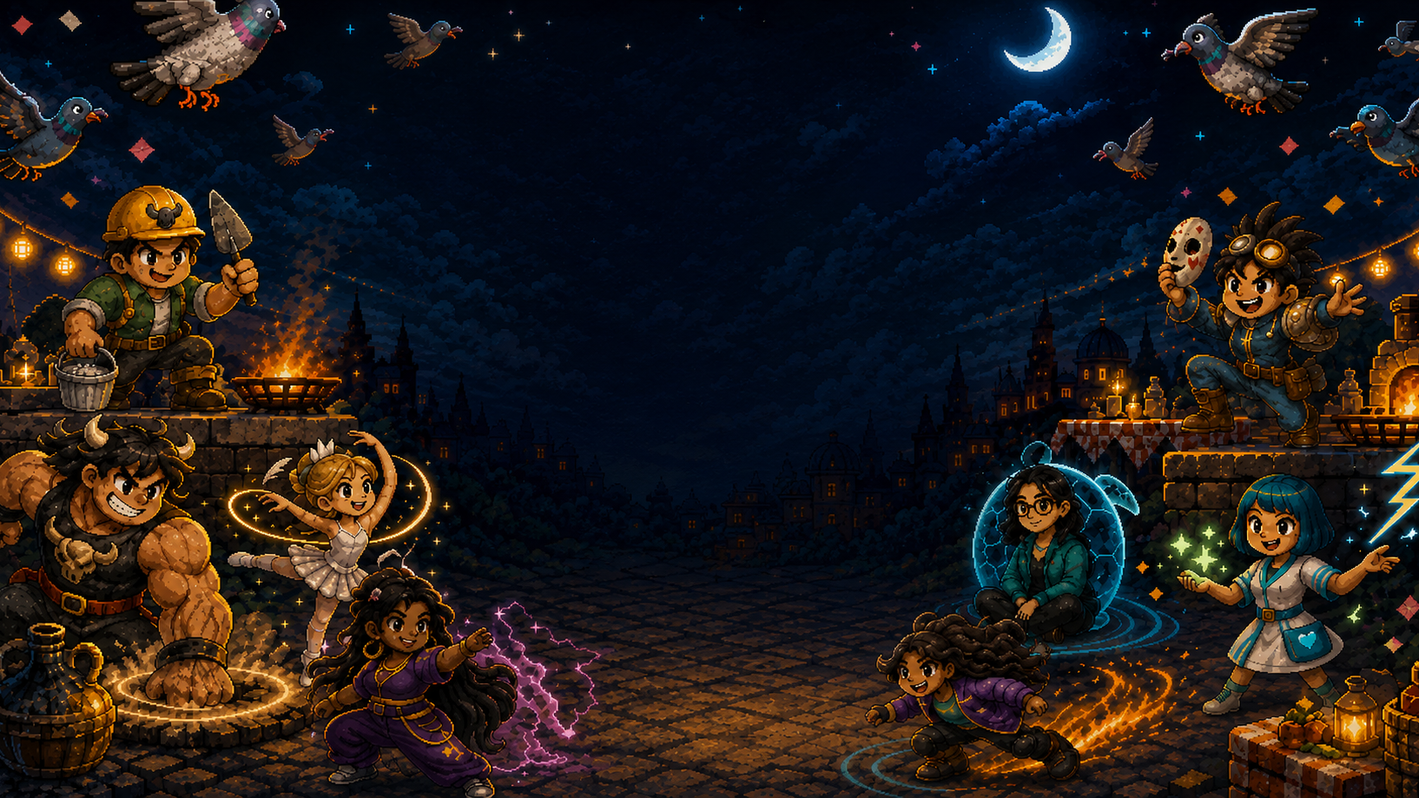
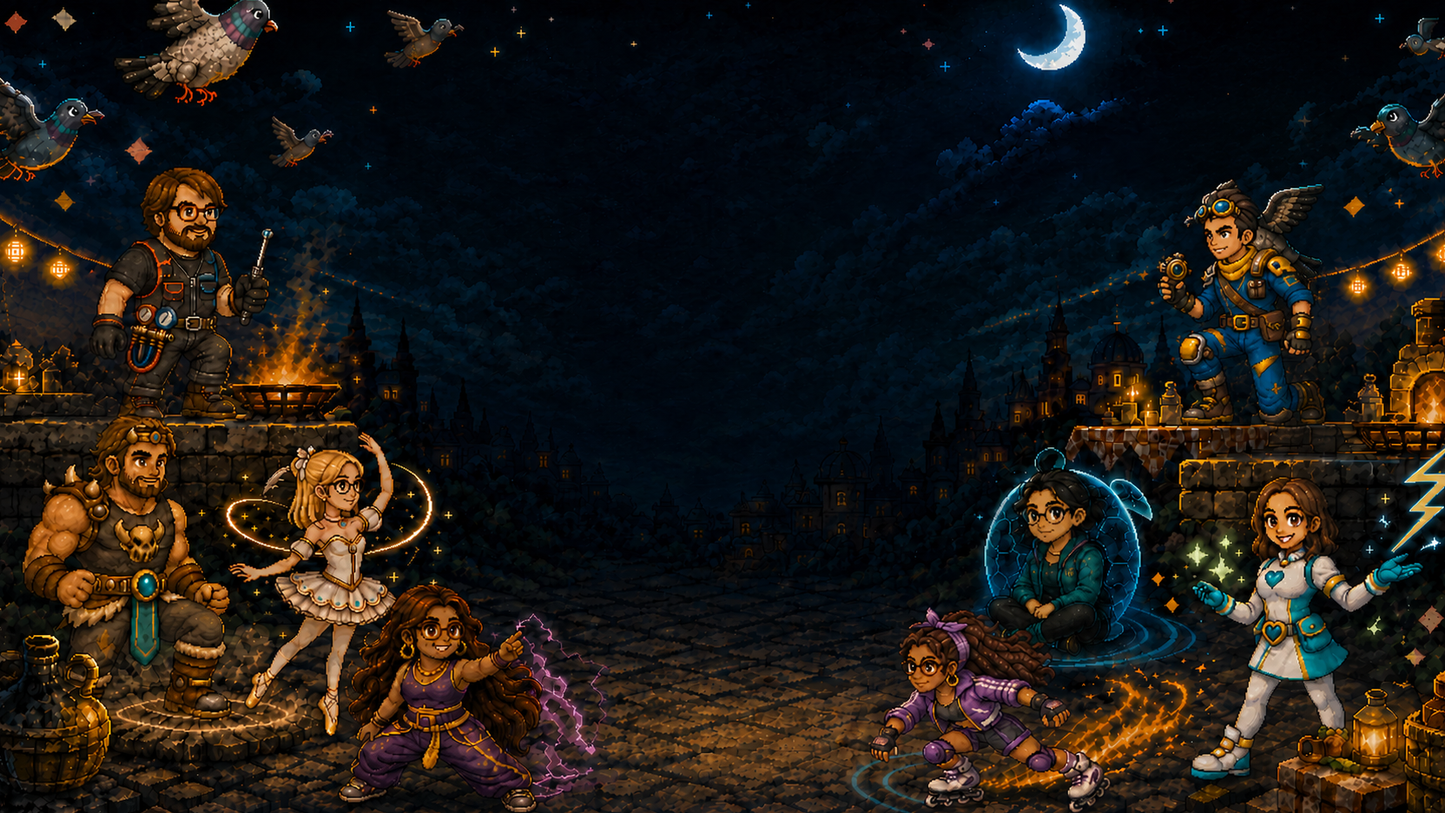
chore: Refresh welcome cast art and prune superseded welcome assets
Commit the 28 August welcome background refresh that realigns the eight
characters to the B18U identity masters, and track its HD source alongside
the other hd/ folders.

Remove the superseded trial rasters: the pre-refresh runtime baseline, the
pre-grounding intermediate, and the cast-less base backdrop that nothing
referenced. Rewrite the welcome asset manifest around the current version -
runtime file table, HD source, transformation chain and the two prompts that
produced it - with the superseded rounds kept as a dated summary instead of
five full prompt blocks.

diff --git a/assets/art/ui/welcome/ASSET-MANIFEST.md b/assets/art/ui/welcome/ASSET-MANIFEST.md
@@ -1,15 +1,45 @@
 # Manifest grafico welcome B18O
 
-Fondale originale prodotto il 24 agosto 2026 con la modalità built-in di OpenAI
-ImageGen per la schermata iniziale di IL GIOCO. La variante runtime corrente usa
-come edit target la reference pixel-art fornita dal proprietario del progetto
-nella sessione del 24 agosto e integrata dopo la sua richiesta esplicita di
-procedere. Non sono state usate fotografie o persone reali. Il runtime non
+Fondale della schermata iniziale di Pidgeon Survivor, prodotto con la modalità
+built-in di OpenAI ImageGen. La versione runtime corrente è il refresh identità
+del cast del 28 agosto 2026: usa come edit target la reference pixel-art
+approvata e come riferimenti di identità gli otto master del proprietario in
+`assets/art/characters/players/hd/`. I riferimenti derivano da fotografie di
+persone reali fornite e autorizzate esplicitamente dal proprietario; il
+risultato resta una caricatura pixel-art non fotorealistica. Il runtime non
 dipende dal servizio di generazione.
 
 Origine: OpenAI ImageGen built-in.  
 Autore: progetto IL GIOCO con assistenza OpenAI ImageGen.  
 Licenza: Licenza del progetto.
+
+## File runtime
+
+| Percorso | Dimensioni | Trasformazioni | SHA-256 |
+|---|---:|---|---|
[2 lines of base64/hex data omitted]
+
+Sorgente HD conservato fuori dall'import e dai tre preset di export:
+
+| Percorso | Dimensioni | SHA-256 |
+|---|---:|---|
[1 lines of base64/hex data omitted]
+
+La cartella `hd/` contiene `.gdignore` ed è esclusa esplicitamente dai preset
+Windows, Android APK e Android AAB.
+
+Il fondale è dedicato alla welcome e non sostituisce lo sfondo arena pianificato
+in B18S. Il pannello, il titolo e i pulsanti restano UI nativa Godot per
+preservare testo esatto, focus, safe area e accessibilità multipiattaforma.
+
+## Catena di trasformazione della versione runtime
+
+L'edit di refresh ha prodotto un PNG RGB `1672×941`, conservato come sorgente HD.
+Per ottenere il file runtime è stato applicato soltanto un crop centrale senza
+ricampionamento: `4 px` per lato, `2 px` sopra e `3 px` sotto, ottenendo un PNG
+RGB 16:9 esatto `1664×936`. Nessun ritocco manuale, ridimensionamento o testo
+raster è stato aggiunto.
 
 ## Logo welcome fornito
 
@@ -25,6 +55,9 @@ presenti nel raster: titolo `Pidgeon Survivor` e sottotitolo
 
 ## Prompt fondale base
 
+Definisce ambiente, palette, illuminazione, piccioni e area menu protetta che
+ogni versione successiva ha dovuto preservare.
+
 ```text
 Use case: stylized-concept
 Asset type: 16:9 game title-screen background for a Windows and Android friendship-survival arcade game
@@ -38,115 +71,60 @@ Color palette: deep navy and indigo base, warm amber and golden yellow, cyan hig
 Constraints: no text, no letters, no numbers, no logo, no UI controls, no frame, no watermark; no realistic faces; no gore; no guns; no false obstacle grid; no bulky sci-fi panels; maintain strong readability and low contrast in the central UI-safe area; the image itself must fill the full canvas without a border
 ```
 
-## Prompt prima variante cast abilità
+## Prompt refresh identità del cast — versione runtime corrente
 
 ```text
 Use case: precise-object-edit
-Asset type: 16:9 Windows and Android game welcome-screen background
-Input images: Image 1 is the edit target and establishes the exact pixel-art style, environment, lighting, palette, framing, pigeon design, and protected central menu area.
-Primary request: replace only the eight generic human adventurers in Image 1 with exactly eight original fictional characters whose clothing, pose, props, silhouette, and restrained VFX clearly communicate the approved IL GIOCO roster abilities. Do not base them on real people. Keep the rest of Image 1 visually unchanged.
+Asset type: 16:9 Windows and Android pixel-art welcome-screen background
+Input: preserve the approved welcome background exactly; use the eight supplied
+character masters only as identity, hairstyle, body-shape, costume and ability
+references.
 
-Character replacements, exactly one of each:
-1. Magno — a broad, powerful seismic strongman with a playful bovine motif such as small decorative horns or a bull emblem; planted stance; one fist causing a compact circular earthquake shockwave and a few ground cracks.
-2. Bea — an agile inline roller skater caught in a dramatic low powerslide; sporty silhouette; a short curved trail of orange fire behind the skates.
-3. Zat — a resourceful field nurse and storm healer carrying a compact medical satchel with a generic cyan heart symbol, never a Red Cross emblem; one hand emitting soft healing light while a yellow-cyan thunderbolt arcs overhead.
-4. Alea — a graceful classical ballerina in mid grand pirouette; clear tutu/skirt silhouette and pointed pose; a bright circular motion ribbon with a subtle eagle-feather accent.
-5. Aleo — a sturdy construction worker with hard hat, rolled sleeves, trowel and small cement bucket; a fresh gray cement splash hardening into a slowing patch near the boots.
-6. Lollo — a hyperactive chaotic cosplayer wearing an original patchwork costume assembled from several generic archetypes, with a removable mask and colorful accessories; no copyrighted or recognizable franchise costume.
-7. Migi — a calm meditating martial-arts monk or yogi; serene pose inside a translucent cyan turtle-shell shield and slow concentric zen waves.
-8. Marghe — an energetic reggaeton street dancer in a confident rhythmic pose; magenta-gold beat accents and one flat shadow silhouette echoing the dance as a VFX clone, clearly not a ninth physical character.
+Replace the eight existing physical characters, keeping their established slots:
+upper-left Aleo, lower-left Magno/Alea/Marghe, upper-right Lollo, lower-right
+Migi/Bea/Zat. Preserve the deep navy night, moon, pigeons, platforms, barbecue
+glow, palette, camera, pixel clusters and the dark protected menu-safe area
+x=31%-69%, y=9%-70%.
 
-Placement: preserve the existing eight character slots around the outer lower edges. Put Aleo in the upper-left slot; Magno, Alea, and Marghe across the lower-left group. Put Lollo in the upper-right slot; Migi, Bea, and Zat across the lower-right group. Keep every important face, prop, and effect outside the central 45% UI-safe area.
+Aleo: stocky brown-haired bearded thermotechnician with rectangular glasses,
+black HVAC uniform, red/blue gauges, hoses and probe. Magno: fully human, very
+muscular, swept brown hair and beard, bull-emblem outfit with decorative horn
+motifs. Alea: slender blonde ballerina with glasses, white-gold costume and cyan
+gems. Marghe: visibly fuller and softly curvy, round face, tortoiseshell glasses,
+very long dark hair, purple-gold reggaeton outfit and one flat VFX shadow clone.
+Lollo: lean angular face, dark swept pompadour, brass-blue goggles and original
+blue-gold retrofuturist outfit. Migi: black low bun, round light-metal glasses,
+teal-charcoal clothing and cyan turtle-shell shield. Bea: curvy athletic skater,
+black glasses, voluminous curls, mandatory lavender bandana, purple roller outfit,
+low powerslide with both skates correctly grounded and a short fire trail. Zat:
+slender, long narrow smiling face, shoulder-length brown hair and white-cyan-gold
+electric field-medic outfit.
 
-Style/medium: polished hand-crafted 2D pixel-art arcade illustration matching Image 1 exactly; crisp clustered pixels, chunky readable silhouettes, limited rich palette, expressive caricature, consistent scale and outline weight. Characters should feel like one cohesive friendship-survival cast, not unrelated costume mascots.
-Lighting/mood: preserve the deep navy summer night, warm amber barbecue/string-light illumination, cyan moonlight, restrained magenta accents, and cheerful absurd-survival tone.
-Composition/framing: preserve Image 1's 16:9 canvas, camera angle, moon, sky, pigeons, barbecue party environment, tables, props, ground perspective, and dark quiet center. Maintain safe crop behavior for 20:9 and 4:3.
-Constraints: exactly eight physical human characters; the Marghe shadow clone is a flat translucent VFX silhouette only. No text, letters, numbers, logo, UI, buttons, frame, border, watermark, realistic faces, real-person likenesses, gore, guns, copyrighted costumes, Red Cross emblem, extra humans, or extra humanoids. Do not brighten, clutter, or populate the central menu-safe area. Change only the eight character designs and the small ability effects immediately around them; keep all other image elements unchanged.
+Strict invariants: exactly eight physical humans; Marghe's shadow is VFX only.
+No extra body, mannequin, duplicate, text, logo, UI, watermark, border, gun,
+gore, branded costume or Red Cross emblem. Do not place faces, torsos or bright
+props in the protected center. Keep the characters grounded and anatomically
+coherent, with the left/right sprite identity distinctions reflected in pose.
 ```
 
-## Prompt correzione cast — runtime corrente
+Una passata di pulizia ha rimosso il corpo blu residuo sotto Lollo. Su richiesta
+del proprietario, l'ultima correzione abbassa soltanto Lollo di pochi pixel e
+porta entrambi gli stivali a contatto leggibile con la piattaforma superiore,
+senza ridisegnare il personaggio o modificare gli altri sette.
 
-```text
-Use case: precise-object-edit
-Asset type: 16:9 Windows and Android game welcome-screen background
-Input images: Image 1 is the exact edit target.
-Primary request: make only the following four targeted character corrections while preserving the entire image, the other four characters, and the central menu-safe space.
+## Passaggi superati
 
-1. Migi — the seated zen character inside the glowing cyan turtle-shell shield near the center-right: redesign her as an adult woman with clearly visible black hair and readable glasses. She does not need to be a monk. Give her a relaxed modern teal-and-dark outfit, a calm seated pose, and a thoughtful friendly expression. Preserve the cyan turtle-shell shield and concentric slowing waves so her defensive Zen ability remains unmistakable.
-2. Marghe — the reggaeton dancer in purple at the lower-left, next to the magenta shadow clone: make her visibly fuller-bodied and softly curvy, with very long flowing black hair. Preserve her energetic confident dance pose, purple street-dance clothing, magenta-gold beat accents, and flat shadow-clone VFX.
-3. Bea — the roller skater performing the fiery powerslide in the lower-right foreground: add one clearly visible purple garment, preferably a purple sporty jacket or hoodie. Preserve her low powerslide pose, inline skates, speed arc, and orange fire trail.
-4. Lollo — the cosplayer on the upper-right platform: redesign the costume as an original retro-futuristic post-apocalyptic lone-survivor cosplay, evoking a cheerful vault explorer through a blue utility jumpsuit with yellow trim, rugged boots, utility belt, improvised shoulder protection, and a weathered explorer accessory. Keep it an original design: no Fallout logo, no vault number, no Pip-Boy copy, no franchise iconography, and no exact reproduction of any copyrighted character. Preserve Lollo's hyperactive theatrical pose and removable cosplay prop.
+I raster intermedi delle prove precedenti sono stati rimossi: il repository
+conserva soltanto la versione runtime corrente e il suo sorgente HD. I prompt
+integrali dei passaggi superati restano recuperabili dalla cronologia git di
+questo manifest.
 
-Strict invariants: keep Magno, Alea, Aleo, and Zat unchanged. Preserve the exact 16:9 canvas size, hand-crafted pixel-art style, character positions, camera, moon, pigeons, barbecue party environment, lighting, palette, dark central 45% negative space, props, and crop safety. Keep exactly eight physical human characters; Marghe's shadow clone remains a flat translucent VFX silhouette, not a ninth person. Do not add, remove, or move characters. No text, letters, numbers, logos, UI, frame, border, watermark, realistic faces, real-person likenesses, guns, gore, branded costumes, or extra humanoids.
-```
-
-## Prompt correzione Bea — runtime corrente
-
-```text
-Use case: precise-object-edit
-Asset type: 16:9 Windows and Android game welcome-screen background
-Input images: Image 1 is the exact edit target.
-Primary request: modify only Bea, the inline roller skater in the purple sporty jacket performing a fiery low powerslide in the lower-right foreground.
-
-Bea correction: remove her orange helmet completely. She must have no helmet, cap, hat, hood, headband, or other headwear. Replace the helmet with long, voluminous, naturally curly hair in the same dark hair color already visible on the character. The curls should be clearly readable as long and curly, flowing backward with the speed of the powerslide while keeping her face unobstructed. Preserve Bea's friendly expression, purple jacket, body proportions, exact low skating pose, inline skates, cyan speed arc, and orange fire trail.
-
-Strict invariants: change only Bea's head and hair. Keep Migi, Marghe, Lollo, Magno, Alea, Aleo, and Zat exactly unchanged. Preserve all eight character positions, every other costume and face, Marghe's shadow-clone VFX, the exact 16:9 canvas, pixel-art style, palette, lighting, moon, pigeons, barbecue party scenery, props, central dark menu-safe space, and crop safety. Keep exactly eight physical human characters. Do not add or remove people, effects, text, letters, numbers, logos, UI, watermark, frame, realistic rendering, real-person likeness, guns, gore, or branded elements. This is a single-character helmet-removal and hairstyle edit only.
-```
-
-## Prompt correzione Lollo e Zat — runtime corrente
-
-```text
-Edit the supplied finished 16:9 pixel-art game welcome illustration with two precise character corrections only.
-
-1) LOLLO: He is the man standing on the small upper-right platform, wearing the original blue-and-yellow retro-futuristic post-apocalyptic survivor cosplay with goggles. Change only his hair color so it is clearly dark: near-black or very dark brown. Keep his existing hairstyle, goggles, face, costume, pose, proportions, lighting, platform, and non-branded original design exactly unchanged.
-
-2) ZAT: She is the rightmost electric field nurse in the lower-right character group, behind/near Bea, currently casting cyan healing light and yellow-cyan lightning. Give her a clear neat chin-length bob haircut ("caschetto" means a bob haircut, absolutely NOT a helmet or any headgear), preserving her existing teal hair color. Make her outfit unmistakably a white-and-teal nurse uniform: a practical clean nurse tunic or dress with collar and belt, with a generic cyan heart medical emblem; do not use a Red Cross emblem. Preserve her face, pose, position, healing glow, lightning power, body proportions, and lighting.
-
-Preserve every other person exactly as in the source: Bea remains helmetless with long dark curly hair and a purple garment while powersliding; Migi remains a woman with glasses and black hair inside the turtle shield; Marghe remains fuller-bodied with extremely long black hair; Magno, Alea, and Aleo remain unchanged. Preserve the exact environment, composition, pixel-art rendering, palette, central negative space for UI, effects, crop, and 16:9 framing. Exactly eight physical human characters total. Do not add, remove, duplicate, move, resize, or redesign any character. No text, letters, numbers, logos, watermarks, borders, UI, extra limbs, helmets, or additional figures.
-```
-
-## Prompt pulizia reference e ricomposizione cast — runtime corrente
-
-```text
-Use case: precise-object-edit
-Asset type: 16:9 Windows and Android game welcome-screen background
-Input images: Image 1 is the edit target and visual reference.
-
-Primary request: turn Image 1 into a clean background plate for a native responsive Godot menu. Remove every baked-in interface element from the center: remove the entire wooden "Pidgeon Survivor" title sign, the subtitle ribbon, the large dark menu frame, both baked buttons, every word, every letter, every icon, and every UI decoration attached to those panels. Reconstruct the concealed night sky, distant town, stone ground, party lighting, and scenery seamlessly in the exact same polished hand-crafted pixel-art style.
-
-Composition: create a protected central UI-safe region spanning approximately x=31% to 69% and y=9% to 70% of the canvas. Keep this region dark, quiet, low-detail, and completely free of people, faces, bodies, props, pigeons, bright VFX, signs, frames, and text. It will hold a native title plaque and two native buttons. Preserve the moon, flying pigeons, barbecue glow, string lights, city silhouettes, platforms, tables, and warm night-party atmosphere around the outer edges.
-
-Characters: preserve exactly the same eight fictional human characters, their designs, faces, clothing, poses, abilities, scale, and pixel-art rendering:
-- Aleo, upper-left construction worker with hard hat, trowel, and bucket.
-- Magno, lower-left broad seismic strongman with bovine motif.
-- Alea, classical ballerina with golden circular pirouette ribbon.
-- Marghe, fuller-bodied reggaeton dancer in purple with extremely long black hair and a flat magenta shadow-clone VFX.
-- Lollo, upper-right blue-and-yellow original retro-futuristic survivor cosplayer with clearly dark hair and goggles.
-- Migi, woman with glasses and black hair inside the cyan turtle-shell shield.
-- Bea, helmetless inline skater with long dark curly hair, purple jacket, and fiery powerslide.
-- Zat, electric field nurse with a neat teal chin-length bob haircut, no headgear, white-and-teal nurse uniform, cyan heart emblem, healing light, and yellow-cyan thunderbolt.
-
-Move characters only as much as required to keep their complete faces, heads, identifying clothing, and ability props outside the protected central region. Shift Marghe farther toward the lower-left group; shift Migi and Bea farther toward the lower-right group. Keep everyone naturally grounded and fully readable. Limbs or subtle trails may approach the center, but no face or torso may sit behind the future menu area. Preserve the friendly ensemble balance and safe cropping for 20:9 and 4:3.
-
-Style/medium: match Image 1 exactly—professional crisp clustered 2D pixel art, chunky readable silhouettes, rich limited palette, expressive caricature, deep navy night, warm amber light, cyan highlights, restrained magenta accents.
-
-Strict constraints: exactly eight physical humans total; Marghe's shadow clone remains a flat translucent VFX silhouette and not a ninth person. No text, letters, numbers, logos, watermark, UI, buttons, panels, plaques, frames, borders, realistic faces, real-person likenesses, gore, guns, copyrighted costumes, Red Cross emblem, extra humans, or humanoids. Do not redesign any character. Do not add new objects. The output must be only the clean full-canvas background illustration.
-```
-
-L'output built-in grezzo è un PNG RGB `1711×919`, SHA-256
[1 lines of base64/hex data omitted]
-Per ripristinare il contratto 16:9 è stato applicato un crop centrale senza
-ricampionamento: `38 px` a sinistra e `39 px` a destra. Nessun ritocco manuale,
-ridimensionamento o testo raster è stato aggiunto.
-
-## File runtime
-
-| Percorso | Dimensioni | Trasformazioni | SHA-256 |
-|---|---:|---|---|
[3 lines of base64/hex data omitted]
-
-Il fondale è dedicato alla welcome e non sostituisce lo sfondo arena pianificato
-in B18S. Il pannello, il titolo e i pulsanti restano UI nativa Godot per
-preservare testo esatto, focus, safe area e accessibilità multipiattaforma.
+| Data | Passaggio | Esito |
+|---|---|---|
+| 24 agosto 2026 | Fondale base senza cast, output built-in `1711×919` con crop centrale `38/39 px` a `1634×919` | Superato dal cast abilità |
+| 24 agosto 2026 | Prima variante cast abilità: otto personaggi originali sulle slot esterne | Superato dalle correzioni successive |
+| 24 agosto 2026 | Correzioni mirate su Migi, Marghe, Bea e Lollo | Superato dal refresh identità |
+| 24 agosto 2026 | Correzione Bea, rimozione casco e capelli ricci lunghi | Superato dal refresh identità |
+| 24 agosto 2026 | Correzione Lollo e Zat, capelli scuri e divisa da infermiera | Superato dal refresh identità |
+| 24 agosto 2026 | Pulizia reference e ricomposizione cast per liberare l'area menu | Confluito nella versione corrente |
+| 28 agosto 2026 | Refresh identità del cast dai master B18U, più abbassamento di Lollo | **Versione runtime corrente** |

diff --git a/docs/content-approvals.md b/docs/content-approvals.md
@@ -47,11 +47,11 @@ non una somiglianza fotografica, ma per Aleo non vale più la clausola
 | Varianti Boss B22 | Approvate come riuso | Il piccione speciale B18H è la baseline; gli otto Evil riusano gli sprite Player B18U già approvati con sola modulazione viola/magenta runtime. Nessun nuovo raster, citazione, voce, passiva o abilità personale entra in B22 |
 | Icone e VFX B18M | Approvato e integrato; timing B18R verificati | Otto emblemi PNG originali OpenAI ImageGen sostituiscono gli SVG e animano l'attivazione; prompt, trasformazioni, licenza e hash sono nel manifest. Il burst da `1,20 s` e le code non interattive hanno superato automatici, Windows, Android e verifica umana il 25 agosto 2026 |
 | Icone passive del roster B18W | Approvate e integrate | Otto PNG raster dedicati (Magno più sette master RGBA forniti dal proprietario) sostituiscono il fallback al ritratto nel kit. Prompt, origine, trasformazioni e hash sono in `assets/art/icons/passives/ASSET-MANIFEST.md`; confronto percettivo fisico chiuso il 25 agosto 2026 |
-| Fondale e logo welcome B18O | Approvato e integrato | La reference pixel-art approvata dal proprietario è stata ripulita con OpenAI ImageGen built-in: nessuna UI resta nel fondale, gli otto archetipi sono ai bordi e il centro è protetto. `welcome_logo.png`, fornito dal proprietario, occupa il centro senza trasformazioni; autore, generatore e licenza a monte non dichiarati non vengono inventati. Nessuna foto o persona reale; prompt, origine, crop e SHA-256 sono nel manifest dedicato |
+| Fondale e logo welcome B18O | Refresh integrato; gate percettivo riaperto | Il refresh del 28 agosto usa gli otto master B18U, derivati da riferimenti fotografici forniti e autorizzati dal proprietario, per riallineare il cast della welcome alle identità correnti. Restano esattamente otto caricature pixel-art ai bordi, senza UI raster e con centro protetto. Il master HD e la versione precedente sono esclusi da import/export; prompt, origine, crop e SHA-256 sono nel manifest dedicato |
 | Sfondo arena B18S | Approvato e integrato | Due varianti originali OpenAI ImageGen built-in sono state confrontate; soltanto la texture materica non semantica scelta entra nel runtime come PNG RGB `768×512`. Prompt, autore, licenza, downscale nearest-neighbor e SHA-256 sono nel manifest; automatici, Windows, APK, Pixel 9 20:9 e confronto finale a luminosità controllata sono chiusi |
 | Identità pubblica | Approvata | Titolo esatto `Pidgeon Survivor`; sottotitolo esatto `It's grilling time!`. Il logo B18O fornito dal proprietario contiene già entrambe le stringhe corrette e resta invariato |
 | Icona applicazione | Approvata e integrata | Su richiesta del proprietario, master quadrato OpenAI ImageGen built-in con un piccione, occhiali pixel, collo iridescente e alone da griglia; nessun testo. Un secondo output trasparente è il foreground adattivo Android. Uso progetto/Windows/Android, prompt, trasformazioni e SHA-256 sono nel manifest dedicato |
-| Sprite Player B18U | Approvati e integrati | Otto archetipi fittizi OpenAI ImageGen built-in confrontati con il fondale welcome B18O e con la conversazione di approvazione del 24 agosto; Magno, Zat, Alea, Aleo e Marghe sono stati corretti per riallinearli. Le strisce runtime, le sorgenti HD trasparenti escluse dagli export, prompt, trasformazioni, licenza e SHA-256 sono nel manifest dedicato; gate percettivo chiuso il 25 agosto 2026 |
+| Sprite Player B18U | Approvati e integrati | Le otto identità pixel-art correnti sono conservate come master in `assets/art/characters/players/hd/` e derivate da riferimenti fotografici forniti e autorizzati dal proprietario. Le strisce runtime, le sorgenti HD escluse dagli export, prompt, trasformazioni, licenza e SHA-256 sono nel manifest dedicato |
 | Citazioni personali dei Boss | Non fornite | La UI usa il placeholder neutro del `BossDefinition`; nessuna citazione personale viene inventata |
 | Audio o voce personale | Non fornito | Il campo resta nullo e il runtime rimane silenzioso |
 | Musica di sottofondo B29 | Integrata, verifica percettiva aperta | `Super Wreck Roadway (loop)` di Umplix, da OpenGameArt, CC0 1.0 Universal. La fonte pubblica espone il loop WAV; il proprietario ha fornito l'OGG runtime. URL, licenza, data di acquisizione, trasformazione dichiarata e SHA-256 sono in `assets/audio/third_party/super_wreck_roadway_loop.MANIFEST.md`; il credito volontario è in `docs/credits.md` |

diff --git a/docs/decision-log.md b/docs/decision-log.md
@@ -179,7 +179,7 @@ Non comprende account sviluppatore, scheda store, policy, privacy form, closed t
 | ASSET-004 | Baseline operativa | B18H produce internamente due piccioni originali su canvas trasparente `48×48`: base grigio-blu con collo verde/viola e speciale antracite con collare magenta e accenti oro; posa neutra e due fasi d'ala condividono silhouette e bordo scuro | Il base sostituisce la sfera ordinaria senza cambiare fisica o spawn; lo speciale resta disponibile per fixture e profili futuri ma non introduce oggi una variante gameplay o una dipendenza di licenza esterna |
 | ASSET-005 | Verificata | Il refresh B18M sostituisce i derivati SVG runtime con otto PNG RGBA `256×256` prodotti tramite OpenAI ImageGen built-in, uno per abilità, registrando prompt, trasformazioni e SHA-256 | Le sorgenti storiche esterne restano documentate ma non sono consumate dal runtime; gli emblemi generati usano la Licenza del progetto e hanno superato il controllo percettivo Pixel 9 il 25 agosto 2026 |
 | ASSET-006 | Confermata | B18S usa OpenAI ImageGen built-in per creare lo sfondo raster originale dell'arena e stabilisce ImageGen come percorso preferito per futuri nuovi asset raster quando adatto; UI, geometrie deterministiche e sistemi vettoriali nativi restano prodotti con strumenti appropriati | La variante scelta entra nel repository con prompt finale, generatore, data, autore, licenza, trasformazioni e SHA-256; nessun asset runtime resta soltanto nell'output del generatore e ogni immagine deve superare contrasto, performance e verifica Windows/Android |
-| ASSET-007 | Confermata | La welcome B18O usa un fondale ImageGen `1634×919` derivato dalla reference pixel-art fornita e approvata dal proprietario; otto archetipi fittizi comunicano abilità ai bordi e il centro è ricostruito senza UI raster. Il logo RGBA `1536×1024` fornito dal proprietario è visualizzato proporzionalmente senza trasformazioni | Nessuna foto o persona reale è usata; il raster è dedicato al frontend e non anticipa B18S. Prompt, origini dichiarate, crop 16:9 e SHA-256 sono nel manifest; autore, generatore e licenza del logo non dichiarati non vengono inventati, mentre pulsanti e focus restano deterministici in Godot |
+| ASSET-007 | In verifica | La welcome B18O usa un fondale ImageGen 16:9 dedicato al frontend, con otto caricature pixel-art ai bordi e centro ricostruito senza UI raster. Il refresh del 28 agosto riallinea il cast agli otto master B18U derivati da riferimenti fotografici forniti e autorizzati dal proprietario; il logo RGBA `1536×1024` resta separato e invariato | Il raster runtime `1664×936` deriva dal master HD `1672×941` con solo crop centrale; Lollo è abbassato sulla piattaforma per risultare fisicamente appoggiato. Master e versioni precedenti sono esclusi da import/export; prompt, origini dichiarate e SHA-256 sono nel manifest. Automatici e nuovo gate percettivo restano distinti |
 | ASSET-008 | Confermata | L'icona applicazione usa un master ImageGen quadrato senza testo: un solo piccione con occhiali pixel, collo iridescente e alone da griglia sulla palette notte del brand | Il PNG è icona progetto, Windows e main icon Android; un secondo output ImageGen con trasparenza, centrato deterministicamente nella safe area, è il foreground adattivo sopra un fondale notte separato. Prompt, riferimento, trasformazioni, licenza e SHA-256 sono nel manifest; il monocromatico Android resta opzionale |
 | ASSET-009 | Verificata | B18U usa otto strisce Player originali ImageGen coerenti con gli archetipi e la palette approvati nella welcome B18O; le sorgenti RGBA `1536×1024` sono conservate per riuso futuro | Il runtime consuma soltanto derivati `96×32`; `hd/.gdignore` e i filtri dei tre preset tengono le sorgenti HD fuori da import, EXE e APK. Prompt, correzioni dalla welcome, trasformazioni, licenza e SHA-256 sono nel manifest dedicato; gate percettivo in movimento chiuso il 25 agosto 2026 |
 | ASSET-010 | In verifica | B27 conserva dieci master PNG upgrade già generati e forniti dal proprietario, senza inventare metadati non consegnati, e ne deriva icone runtime `128×128` con bounds alpha, padding `12` e nearest-neighbor | I master in `assets/art/icons/upgrades/hd/` sono esclusi da import/export; soltanto `generated/` entra nelle `UpgradeDefinition`. Il manifest registra mapping e hash, mentre resta aperto il controllo percettivo delle carte su Windows e Pixel 9 |

diff --git a/assets/art/characters/players/ASSET-MANIFEST.md b/assets/art/characters/players/ASSET-MANIFEST.md
@@ -1,13 +1,12 @@
 # Manifest sprite Player B18U
 
 Le otto strisce Player sono asset raster originali prodotti il 25 agosto 2026
-con OpenAI ImageGen built-in per il progetto IL GIOCO. Nessuna fotografia,
-persona reale, marca, logo o personaggio di terzi e stato usato come soggetto.
-La dichiarazione vale per le otto strisce qui registrate. La striscia `aleo` e
-pero superata dal rework del 28 agosto 2026: la nuova direzione visuale del
-personaggio e ispirata, con consenso esplicito dichiarato dal proprietario, ai
-tratti di una persona reale, e resta una caricatura pixel-art. Il prompt di
-rigenerazione e in `docs/aleo-rework-art-prompts.md`.
+con OpenAI ImageGen built-in per il progetto IL GIOCO. La baseline iniziale non
+usava fotografie o persone reali; l'identity pass del 28 agosto 2026 la supera
+per tutti gli otto profili usando riferimenti fotografici forniti e autorizzati
+esplicitamente dal proprietario. I risultati restano caricature pixel-art e non
+contengono marche, loghi o personaggi di terzi. Il prompt del rework Aleo è in
+`docs/aleo-rework-art-prompts.md`.
 Origine: progetto IL GIOCO; autore: progetto IL GIOCO con assistenza OpenAI
 ImageGen; licenza: Licenza del progetto.
 
@@ -25,16 +24,16 @@ gia PNG RGBA trasparenti `1536x1024`, accompagnati da una copia intermedia su
 chroma per ogni candidato. Per ogni personaggio e stata promossa la versione
 piu recente:
 
-| Personaggio | Candidato promosso |
+| Personaggio | Master corrente |
 |---|---|
-| `magno` | `magno_identity_v3_source.png` |
-| `bea` | `bea_identity_v5_source.png` |
-| `zat` | `zat_identity_v2_source.png` |
-| `alea` | `alea_identity_v3_source.png` |
-| `aleo` | `aleo_thermotechnician_v3_source.png` |
-| `lollo` | `lollo_identity_v2_source.png` |
-| `migi` | `migi_identity_v2_source.png` |
-| `marghe` | `marghe_identity_v3_source.png` |
+| `magno` | `hd/magno_source.png` |
+| `bea` | `hd/bea_source.png` |
+| `zat` | `hd/zat_source.png` |
+| `alea` | `hd/alea_source.png` |
+| `aleo` | `hd/aleo_source.png` |
+| `lollo` | `hd/lollo_source.png` |
+| `migi` | `hd/migi_source.png` |
+| `marghe` | `hd/marghe_source.png` |
 
 Le copie su chroma e le versioni non promosse erano materiale di staging non
 versionato e sono state rimosse dopo la promozione: per questo la tabella di
@@ -43,14 +42,12 @@ dell'output ImageGen su chroma della baseline B18U. Le trasformazioni
 deterministiche verso `96x32` e verso il carosello `256x256` sono invariate e
 sono state rieseguite con gli stessi script e gli stessi parametri.
 
-Per `aleo` il passaggio accompagna il rework gameplay da muratore a
-termotecnico: la sua direzione visuale e ispirata, con consenso esplicito
-dichiarato dal proprietario, ai tratti di una persona reale e resta una
-caricatura pixel-art. La clausola «nessuna persona realeº della baseline B18U
-continua a valere per gli altri sette profili. I prompt di questo passaggio per
+Per `aleo` il passaggio accompagna inoltre il rework gameplay da muratore a
+termotecnico. Come per gli altri sette profili, la direzione visuale usa un
+riferimento autorizzato e resta una caricatura pixel-art. I prompt specifici di
 Aleo sono in `docs/aleo-rework-art-prompts.md`.
 
-## Prompt condiviso
+## Prompt condiviso della baseline del 25 agosto
 
 ```text
 Use case: stylized-concept

diff --git a/docs/b18o-verification.md b/docs/b18o-verification.md
@@ -27,7 +27,7 @@ automatici, Windows, APK statico e Pixel 9 fisico a 20:9.
 
 ## Refresh visuale ImageGen
 
-La welcome usa ora la variante pixel-art `1634×919` prodotta con la modalità
+La baseline verificata il 24 agosto usa la variante pixel-art `1634×919` prodotta con la modalità
 built-in di OpenAI ImageGen a partire dalla reference fornita e approvata dal
 proprietario. L'edit rimuove insegna, testi e pulsanti incorporati, ricostruisce
 lo scenario centrale e sposta i personaggi quanto basta per lasciare volti,
@@ -165,6 +165,37 @@ riferite alla composizione `405×270`.
[1 lines of base64/hex data omitted]
 
 Gli artefatti e le schermate di verifica restano esclusi dal versionamento.
+
+## Refresh identità del cast — 28 agosto 2026
+
+Il fondale runtime è stato sostituito con una composizione `1664×936` che usa i
+master correnti in `assets/art/characters/players/hd/`: Aleo termotecnico,
+Magno muscoloso con motivo bovino, Alea ballerina bionda, Marghe più morbida,
+Lollo retrofuturista, Migi nello scudo tartaruga, Bea con bandana e pattini a
+terra, Zat medico elettrico. La pulizia finale conserva esattamente otto persone
+e lascia libera l'area menu; Lollo è stato abbassato finché entrambi gli stivali
+poggiano visibilmente sulla piattaforma. Il master completo `1672×941` è in
+`assets/art/ui/welcome/hd/`, esclusa da import ed export; i raster intermedi
+delle prove precedenti e il fondale base senza cast sono stati rimossi dal
+repository e restano recuperabili dalla cronologia git.
+
+SHA-256 runtime:
[1 lines of base64/hex data omitted]
+Le verifiche automatiche del refresh sono registrate nella sessione corrente;
+il nuovo controllo percettivo del proprietario e il passaggio fisico Pixel 9
+restano aperti e non sono confusi con le evidenze storiche del 24 agosto.
+
+Verifiche eseguite il 28 agosto:
+
+- refresh import editor Godot 4.7.1 completato senza errori;
+- `run-milestone-checks.ps1 -Milestone B18O -Profile Focused -NoCache`: PASS
+  `1/1`, marker `B18O_WELCOME_FLOW_SMOKE_OK`;
+- profilo `Relevant -NoCache`: il controllo B18O e 22 regressioni su 23 sono
+  verdi; `_complete_roster_abilities_smoke.gd` fallisce sul pannello roster
+  fuori safe area a causa del rework Lollo già presente nel worktree, separato
+  dal fondale welcome;
+- nessun `.import` nella cartella HD e filtro di esclusione presente in tutti e
+  tre i preset; hash runtime e dimensioni corrispondono al manifest.
 
 ## Rebrand ufficiale — 24 agosto 2026
 

diff --git a/docs/development-plan.md b/docs/development-plan.md
@@ -493,7 +493,7 @@ significato:
 | B18L | Joystick dinamico | COMPLETATO | Gate chiusi, inclusa regressione lock/resume; commit dedicato `d6625d7` |
 | B18M | Migliorie grafiche delle abilità | COMPLETATO | Refresh ImageGen: automatici, Windows, APK statico e controllo percettivo Pixel 9 chiusi il 25 agosto 2026 |
 | B18N | Cambia personaggio dal menu pausa | COMPLETATO | Gate automatici, Windows, APK statico e runtime Pixel 9 chiusi il 24 agosto 2026 |
-| B18O | Welcome screen | COMPLETATO | Gate automatici, Windows, APK statico e controllo percettivo 20:9 della variante finale sul Pixel 9 chiusi il 24 agosto 2026 |
+| B18O | Welcome screen | IN VERIFICA | Contratto funzionale chiuso; refresh identità del cast installato il 28 agosto, con automatici e nuovo controllo percettivo da chiudere |
 | B18P | Dimensioni configurabili dei controlli touch | COMPLETATO | Gate automatici, Windows, APK statico e multitouch reale Pixel 9 chiusi il 25 agosto 2026 |
 | B18Q | Arena separata dal HUD minimo | COMPLETATO | Automatici, Windows, APK statico, percorso Pixel 9 20:9 e confronto percettivo manuale multi-aspect chiusi il 25 agosto 2026 |
 | B18R | Durata e leggibilità di animazioni e VFX | COMPLETATO | Timing centralizzati e separati dal gameplay; `42/42`, Windows, Android e verifica umana Windows/Pixel 9 chiusi il 25 agosto 2026 |
@@ -522,7 +522,8 @@ significato:
 
 #### B18C — Player animato e direzione persistente
 
-Stato: `COMPLETATO`.
+Stato: `IN VERIFICA`; contratto funzionale chiuso, refresh identità del cast del
+28 agosto 2026 installato e in attesa del nuovo controllo percettivo.
 
 - [x] Rimuovere il cannoncino visibile e il vecchio fondo circolare azzurro.
 - [x] Animare il personaggio durante il movimento e mostrare una posa ferma al
@@ -869,6 +870,12 @@ Stato: `COMPLETATO`.
 - [x] Verificare sul Pixel 9 la ricomposizione dalla reference e il logo finale:
   welcome e impostazioni mantengono tutti gli otto volti fuori dai pannelli,
   con centro leggibile e target interamente nella safe area.
+- [x] Riallineare il fondale agli otto master correnti in
+  `assets/art/characters/players/hd/`, mantenendo esattamente otto persone, la
+  posa da pattinatrice di Bea, la bandana, il centro libero e il master HD fuori
+  da import/export.
+- [ ] Ripetere smoke B18O e controllo percettivo della nuova composizione su
+  welcome e impostazioni; la verifica su Pixel 9 resta un gate separato.
 
 Dettagli ed evidenze: [`b18o-verification.md`](./b18o-verification.md).
 
